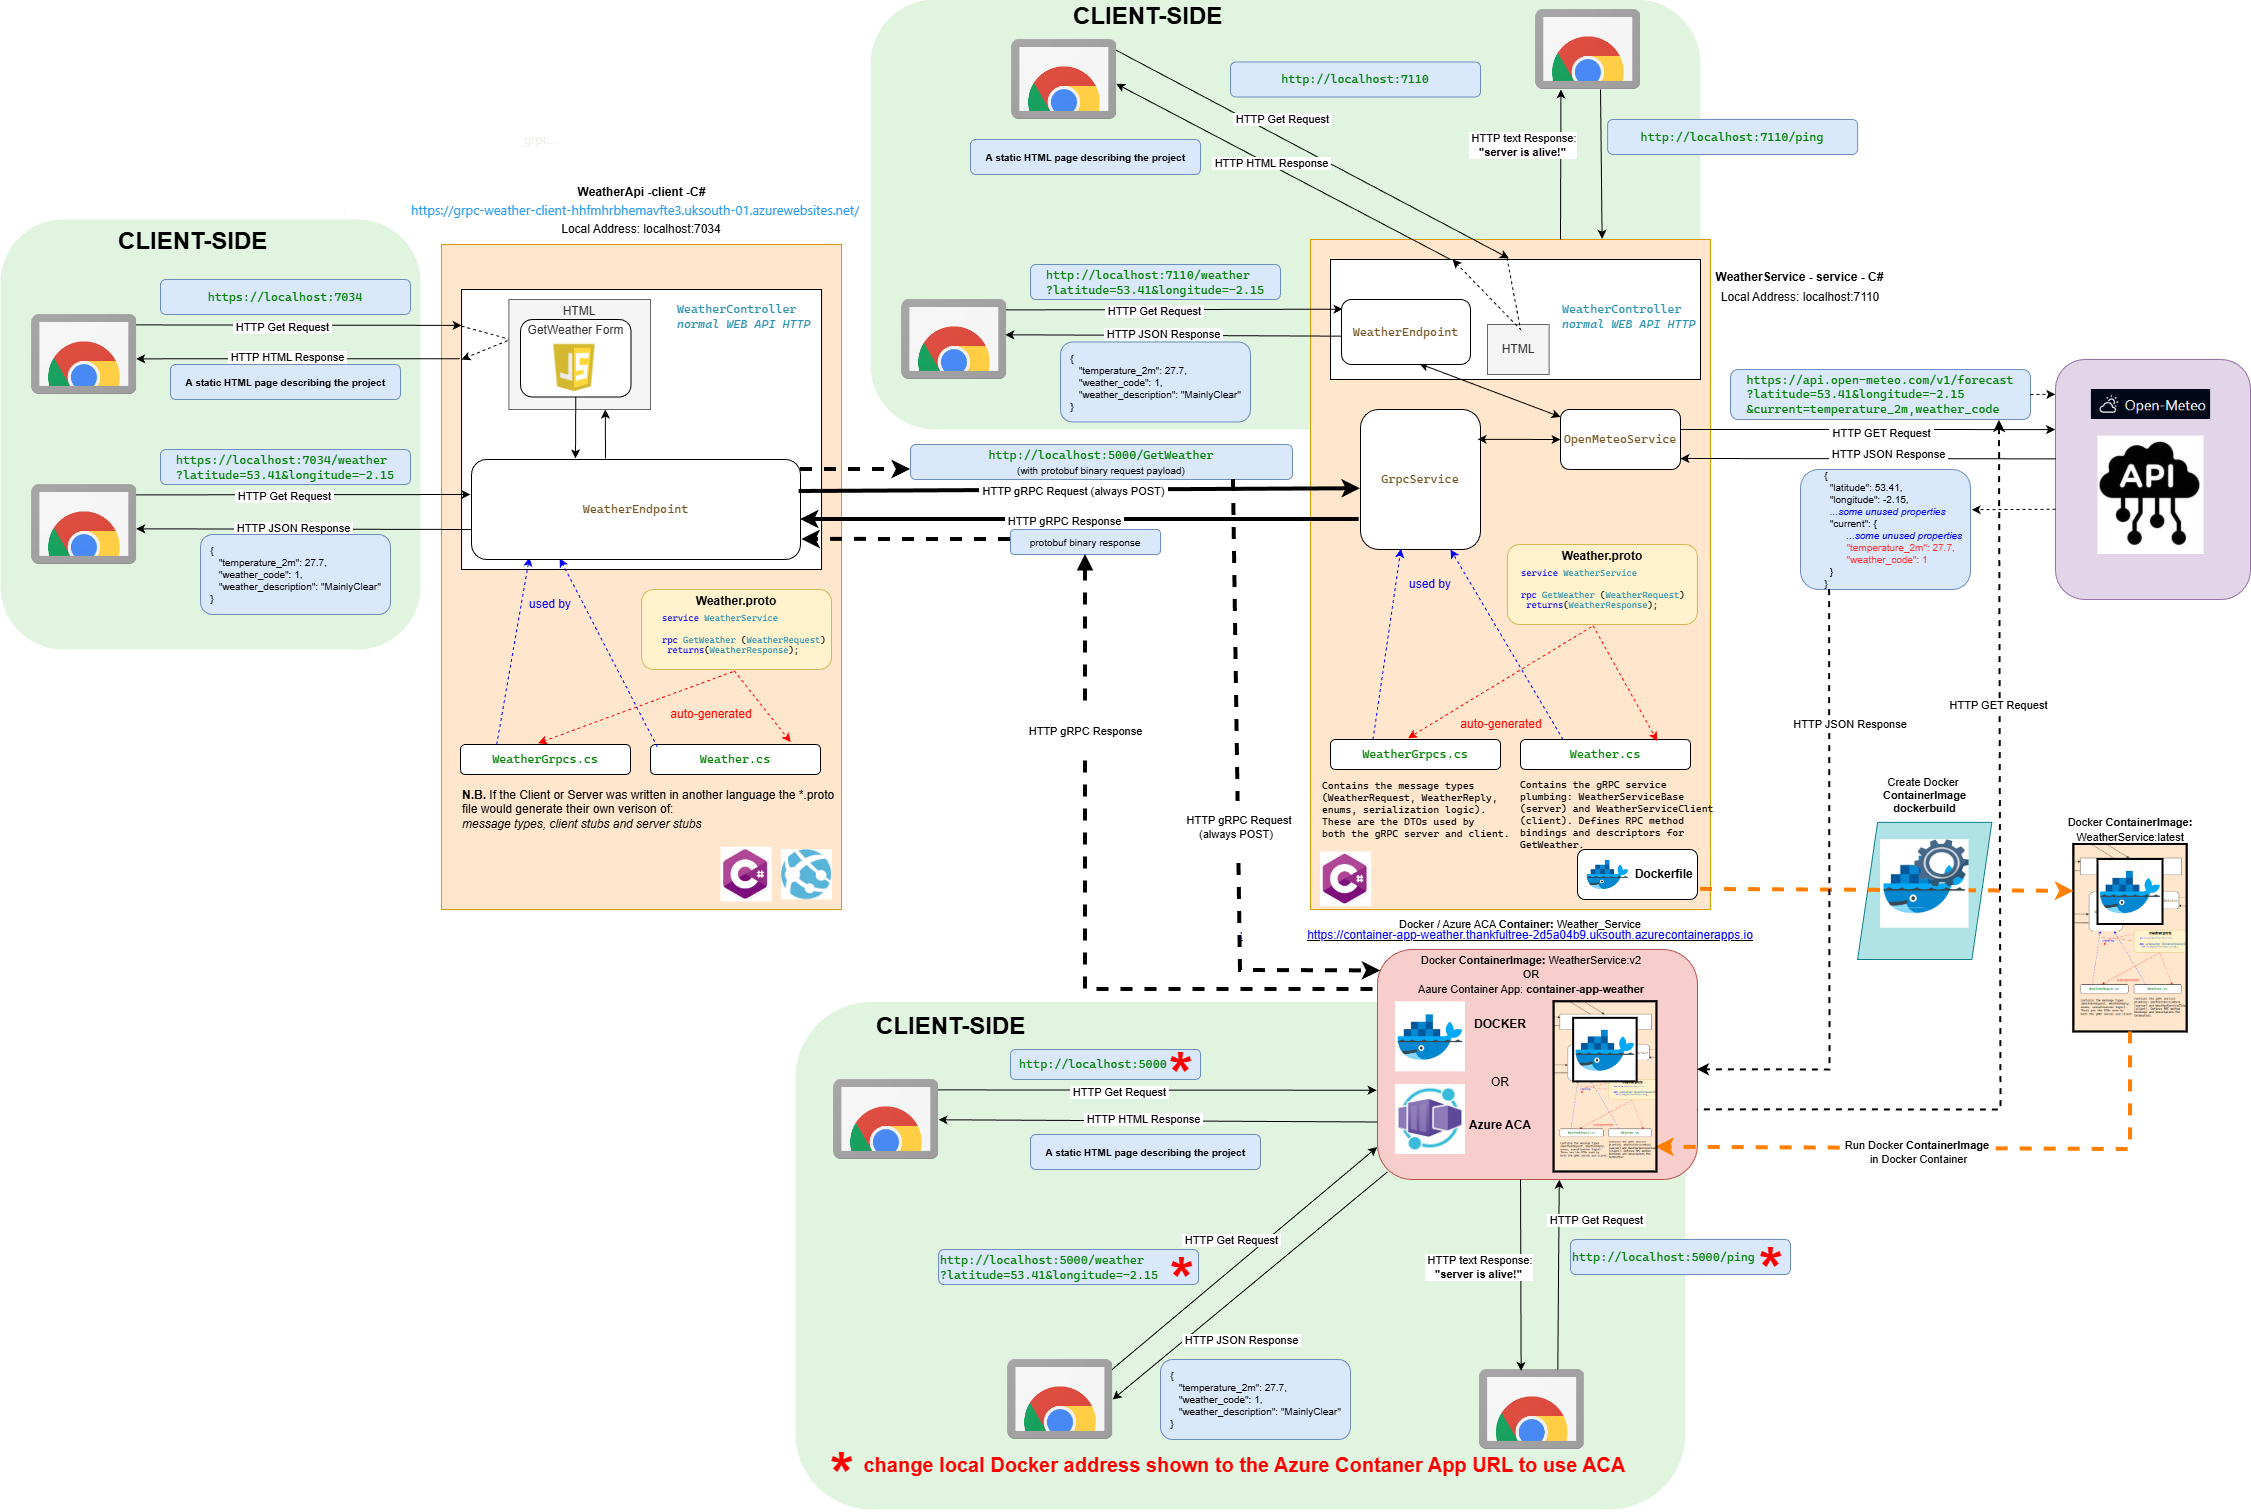
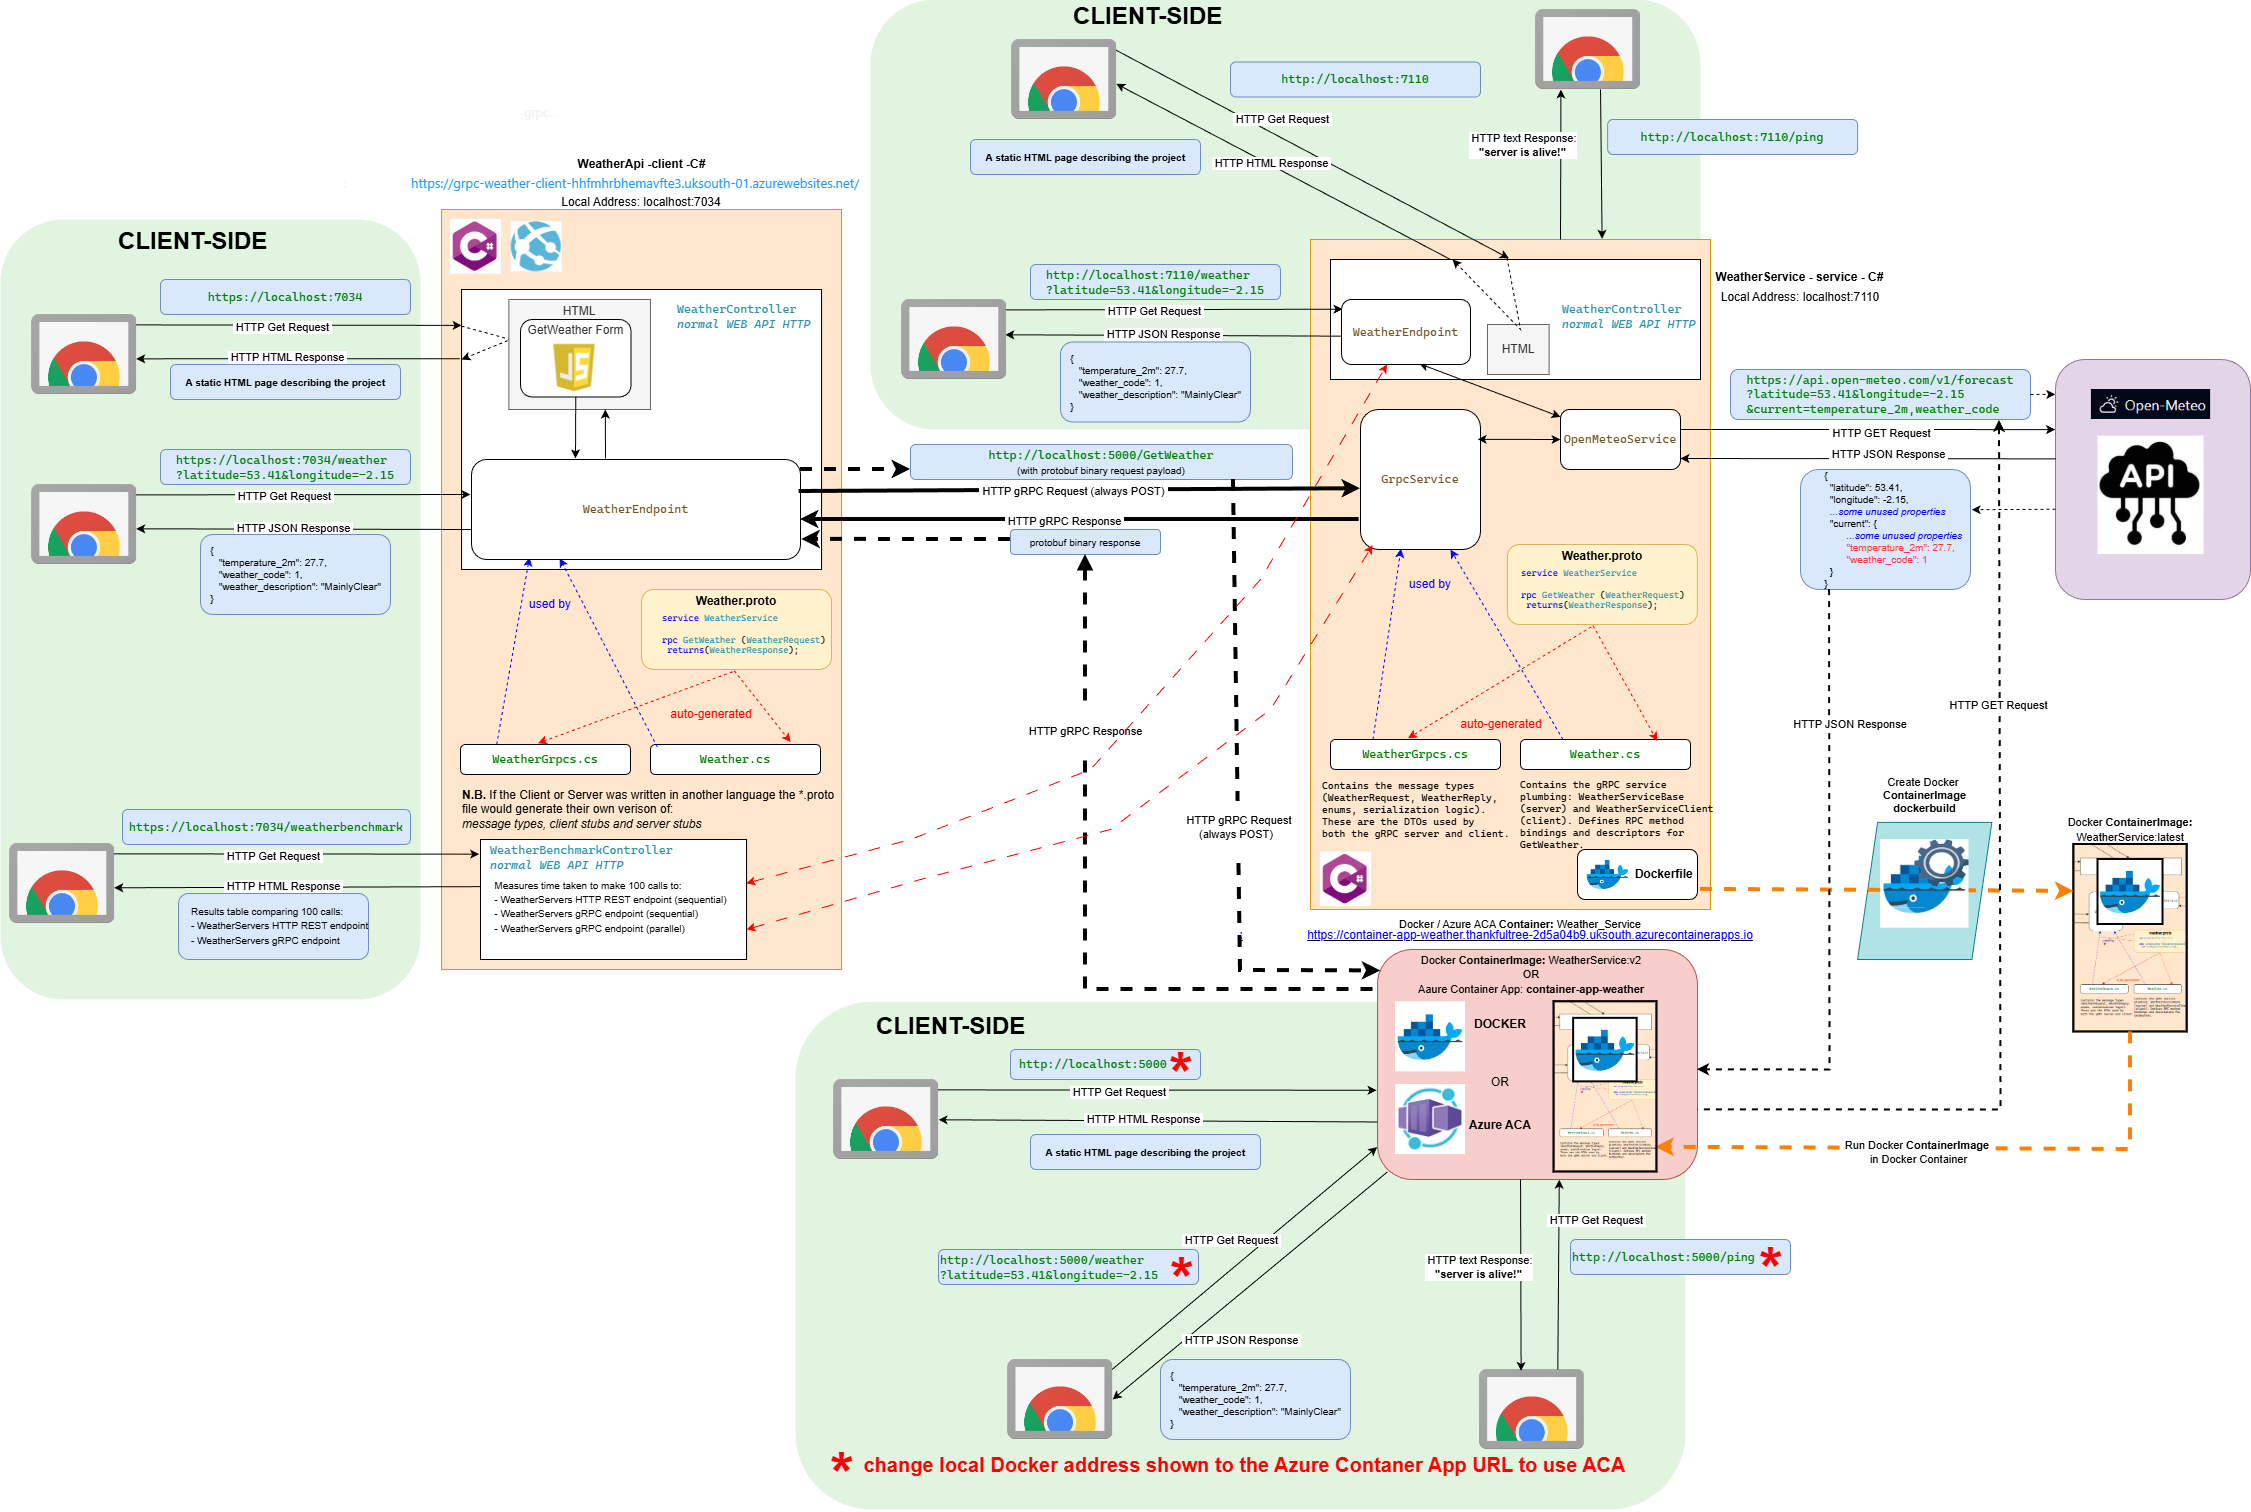
add parallel benchmark

Changed region(s): [[0.0, 0.4041, 0.3732, 0.6839], [0.1866, 0.0933, 0.3732, 0.1865]]

diff --git a/WeatherApi/wwwroot/index.html b/WeatherApi/wwwroot/index.html
@@ -5,14 +5,20 @@
 <body>
     <div class="p-3">
         <h1>gRPC (gRPC Remote Procedure Call) - CLIENT</h1>
-        <a href="/weatherbenchmark" target="_blank">Run gRPC vs. HTTP REST Benchmark</a>
+
+
         <div class="bg-secondary bg-opacity-10 p-3 border rounded">
+            <h2>Benchmark gRPC vs. HTTP REST</h2>
+            <a href="/weatherbenchmark" target="_blank"> Run gRPC vs. HTTP REST Benchmark</a>
+        </div>
+        <br />
+        <div class="bg-secondary bg-opacity-10 p-3 border rounded">
+            <h2>How gRPC Works</h2>
             <p>
                 High-performance, open-source Remote Procedure Call (RPC) framework originally developed by Google. <br />
                 It allows an application to directly call a method on a server application located on a different machine as if it were a local object,<br />
                 making it a popular choice for microservices architectures. <a href="https://grpc.io/" target="_blank">https://grpc.io/</a>
             </p>
-            <h2>How gRPC Works</h2>
             <ul>
                 <li>
                     <strong>Protocol Buffers (Protobuf):</strong> <br />
@@ -40,7 +46,7 @@
                 <li>Hosted on Azure at: <a href="https://grpc-weather-client-hhfmhrbhemavfte3.uksouth-01.azurewebsites.net" target="_blank">grpc-weather-client-hhfmhrbhemavfte3.uksouth-01.azurewebsites.net</a> (Windows OS)</li>
                 <li>The <b>WeatherApi - client</b> endpoint calls a <b>WeatherService - server</b> via gRPC</li>
                 <li><b>WeatherService - server</b> hosted at: <a href="https://container-app-weather.thankfultree-2d5a04b9.uksouth.azurecontainerapps.io/" target="_blank">https://container-app-weather.thankfultree-2d5a04b9.uksouth.azurecontainerapps.io/</a> (in a Container App)</li>
-                <li>Both <b>WeatherApi - client</b> and <b>WeatherService - server</b> built & deployed from AzureDevOps at: <a href="https://dev.azure.com/jones-steve/GprcWeather/_build">https://dev.azure.com/jones-steve/GprcWeather/_build</a></li>
+                <li>Both <b>WeatherApi - client</b> and <b>WeatherService - server</b> built & deployed from AzureDevOps at: <a href="https://dev.azure.com/jones-steve/GprcWeather/_build" target="_blank">https://dev.azure.com/jones-steve/GprcWeather/_build</a></li>
                 <li>Both <b>WeatherApi - client</b> and <b>WeatherService - server</b> in a repo at : <a href="https://github.com/wizzard262/weather-via-grpc" target="_blank">https://github.com/wizzard262/weather-via-grpc</a></li>
                 <li>
                     The <b>WeatherService - server</b> calls the FREE (no auth, key, tokens, signup) weather API <a href="https://open-meteo.com/" target="_blank">https://open-meteo.com/</a><br />
@@ -89,7 +95,7 @@
             </ul>
             <form id="weatherForm" class="border">
 
-                <b>N.B.</b> Ping the server to see it is alive<a href="https://container-app-weather.thankfultree-2d5a04b9.uksouth.azurecontainerapps.io/ping">https://container-app-weather.thankfultree-2d5a04b9.uksouth.azurecontainerapps.io/ping</a>.<br />
+                <b>N.B.</b> Ping the server to see it is alive: <a href="https://container-app-weather.thankfultree-2d5a04b9.uksouth.azurecontainerapps.io/ping" target="_blank">https://container-app-weather.thankfultree-2d5a04b9.uksouth.azurecontainerapps.io/ping</a>.<br />
                 If it is asleep this HTTP GET endpoint will wake it up.<br />
                 If it is asleep a gRPC call will not wake it up and will fail.<br /><br />
 
@@ -147,8 +153,8 @@
         <div class="bg-secondary bg-opacity-10 p-3 border rounded">
             <h2>Draw.io Diagram</h2>
             <p>Click to open full size in a  new tab</p>
-            <a href="images/diagram.png">
-                <img src="images/diagram.png" width="600px;" />
+            <a href="images/diagram.png" target="_blank">
+                <img src="images/diagram.png" width="600px" />
             </a>
         </div>
     </div>

diff --git a/WeatherApi/Controllers/WeatherBenchmarkController.cs b/WeatherApi/Controllers/WeatherBenchmarkController.cs
@@ -11,7 +11,7 @@ namespace WeatherApi.Controllers
     public class WeatherBenchmarkController(IConfiguration config) : ControllerBase
     {
         private readonly string _restBaseUrl = config["HttpRestServerAddress"];  // REST server (https)
-        private readonly string _grpcBaseUrl = config["GrpcServerAddress"];    // gRPC server (http)
+        private readonly string _grpcBaseUrl = config["GrpcServerAddress"];      // gRPC server (http)
 
         [HttpGet]
         public async Task<IActionResult> Run()
@@ -48,89 +48,111 @@ namespace WeatherApi.Controllers
             var grpcMs = swGrpc.ElapsedMilliseconds;
 
             // -------------------------
+            // gRPC PARALLEL THROUGHPUT BENCHMARK
+            // -------------------------
+            var channelParallel = GrpcChannel.ForAddress(_grpcBaseUrl);
+            var grpcParallel = new WeatherService.WeatherServiceClient(channelParallel);
+
+            var swGrpcParallel = Stopwatch.StartNew();
+
+            var tasks = Enumerable.Range(0, 100)
+                .Select(_ => grpc.EchoWeatherAsync(new Empty()).ResponseAsync)
+                .ToArray();
+
+            await Task.WhenAll(tasks);
+
+            swGrpcParallel.Stop();
+            var grpcParallelMs = swGrpcParallel.ElapsedMilliseconds;
+
+            // -------------------------
             // HTML OUTPUT
             // -------------------------
             var html = $@"
-<!DOCTYPE html>
-<html>
-<head>
-    <title>Benchmark Results</title>
-    <style>
-        body {{
-            font-family: Arial, sans-serif;
-            margin: 40px;
-            background: #f5f5f5;
-        }}
-        h1 {{
-            margin-bottom: 20px;
-        }}
-        table {{
-            border-collapse: collapse;
-            width: 400px;
-            background: white;
-        }}
-        th, td {{
-            border: 1px solid #ccc;
-            padding: 10px;
-            text-align: left;
-        }}
-        th {{
-            background: #eee;
-        }}
-        .fast {{
-            color: green;
-            font-weight: bold;
-        }}
-        .slow {{
-            color: red;
-            font-weight: bold;
-        }}
-    </style>
-</head>
-<body>
-    <h1>gRPC vs REST Benchmark</h1>
-    This hits empty endpoints that echo back the Weather JSON object (so as to remove time calling the open-meteo API)<br/>
-    Each is hit 100 times.</br>
-    <table>
-        <tr>
-            <th>Protocol</th>
-            <th>Total Time (ms)</th>
-        </tr>
-        <tr>
-            <td>REST (HTTP/1.1 + JSON)</td>
-            <td class=""slow"">{restMs} ms</td>
-        </tr>
-        <tr>
-            <td>gRPC (HTTP/2 + Protobuf)</td>
-            <td class=""fast"">{grpcMs} ms</td>
-        </tr>
-    </table>
-    BUT Both locally in Visual Studio and on Azure the differnce between HTTP REST and gRPC is tiny and either can be faster.<br/>
-    It seems were just measuring network latency, the workload and DTO are so small the gRPC overhead is not significant.<BR/>
-    gRPC is faster because:
-    <ul>
-        <li>Protobuf is smaller</li>
-        <li>Protobuf is faster to serialize</li>
-        <li>HTTP/2 multiplexes</li>
-        <li>No JSON parsing</li>
-        <li>No HTTP/1.1 head‑of‑line blocking</li>
-    </ul>
-    
-    To see a bigger difference, we need to benchmark a more complex workload with larger payloads and more CPU work.<br\>
-    For example, if the server is doing some CPU intensive work (e.g. image processing) or the payload is large (e.g. 1MB JSON vs 100KB Protobuf),<br\>
-    then gRPC will be significantly faster than REST.<br/>
-    STE:TODO: Mimic a more complex workload and benchmark it. Adding parallelism would be most significant.
-    <ul>
-        <li>JSON serialization cost</li>
-        <li>Protobuf serialization cost</li>
-        <li>HTTP/1.1 head‑of‑line blocking</li>
-        <li>HTTP/2 multiplexing</li>
-        <li>CPU work</li>
-        <li>payload size</li>
-        <li>parallelism (many requests over one connection)</li>
-    </ul>
-</body>
-</html>";
+                <!DOCTYPE html>
+                <html>
+                <head>
+                    <title>Benchmark Results</title>
+                    <style>
+                        body {{
+                            font-family: Arial, sans-serif;
+                            margin: 40px;
+                            background: #f5f5f5;
+                        }}
+                        h1 {{
+                            margin-bottom: 20px;
+                        }}
+                        table {{
+                            border-collapse: collapse;f
+                            width: 400px;
+                            background: white;
+                        }}
+                        th, td {{
+                            border: 1px solid #ccc;
+                            padding: 10px;
+                            text-align: left;
+                        }}
+                        th {{
+                            background: #eee;
+                        }}
+                    </style>
+                </head>
+                <body>
+                    <h1>gRPC vs REST Benchmark</h1>
+                    <ul>
+                        <li>WeatherClient calls WeatherServer HTTP REST endpoint: \weather-echo 
+                        <li>WeatherClient calls WeatherServer gRPC endpoint: EchoWeather
+                        <li>Both endpoits echo back Weather JSON object. <i>(excludes time spent calling the Open-Meteo external API)</i>
+                    </ul>
+                    </br>
+                    </br>
+                    <table>
+                        <tr>
+                            <th>Protocol</th>
+                            <th>Execution Count</th>
+                            <th>Execution Mode</th>
+                            <th>Total Time (ms)</th>
+                        </tr>
+                        <tr>
+                            <td>REST (HTTP/1.1 + JSON)</td>                            
+                            <td>100</td>
+                            <td>Sequential loop</td>
+                            <td><b>{restMs} ms</b></td>
+                        </tr>
+                        <tr>
+                            <td>gRPC (HTTP/2 + Protobuf)</td>
+                            <td>100</td>
+                            <td>Sequential loop</td>
+                            <td><b>{grpcMs} ms</b></td>
+                        </tr>
+                        <tr>
+                            <td>gRPC (HTTP/2 + Protobuf)</td>
+                            <td>100</td>
+                            <td>Parallel</td>
+                            <td><b>{grpcParallelMs} ms</b></td>
+                        </tr>
+                        <tr>
+                            <td>gRPC (HTTP/2 + Protobuf)</td>
+                            <td>100</td>
+                            <td>Streaming</td>
+                            <td><b>todo</b></td>
+                        </tr>
+                    </table>
+                    <br/>
+                    Sequential requests show little difference between REST and gRPC.<br/>
+                    <i>(It's measuring network latency. Workload and DTO are to small to demonstrate gRPC's advantages.)</i></br>
+                    Parallel requests show gRPC is faster.
+                    <br/>
+                    <br/>
+                    gRPC protocol is faster because:
+                    <ul>
+                        <li>Protobuf binary is smaller than JSON</li>
+                        <li>Protobuf is faster to serialize than JSON</li>
+                        <li>HTTP/2 multiplexes (many parallel requests)</li>
+                        <li>No JSON parsing</li>
+                        <li>No HTTP/1.1 head-of-line blocking</li>
+                    </ul>
+                </body>
+                </html>";
 
             return Content(html, "text/html");
         }
